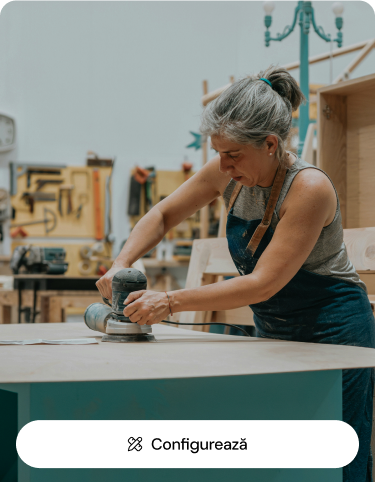
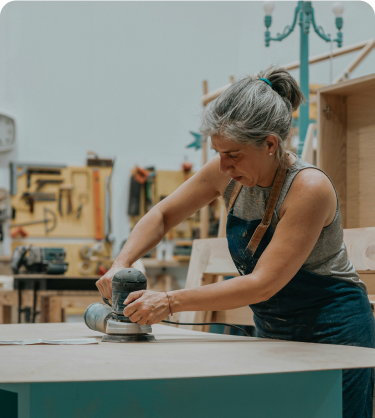
Fix duplicate Configurează button (was baked into workshop.png from Figma export) and remove 120px stale gap before testimonials section

diff --git a/mobile.html b/mobile.html
@@ -815,7 +815,7 @@ h1{font-size:24px;font-weight:500;letter-spacing:-.48px;line-height:1.3;margin-t
   </div>
 
   <!-- Testimonials -->
-  <div id="testim" style="margin-top:120px">
+  <div id="testim" style="margin-top:0">
     <div class="score-badge">
       <div class="big">4.9</div>
       <div class="stars">